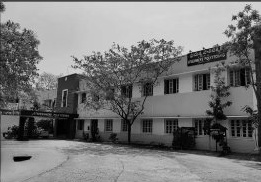
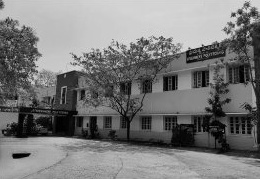
fix: make timeline spine a single continuous line across all rows and remove top border line from 2nd image

diff --git a/src/components/newspaper/NewspaperPages.tsx b/src/components/newspaper/NewspaperPages.tsx
@@ -225,21 +225,23 @@ export const Page03Education: React.FC = () => {
         <div className="w-full border-b border-[#111111] mt-3 sm:mt-4" />
       </div>
 
-      {/* 3-Row Education Timeline Grid with continuous spine */}
-      <div className="relative">
+      {/* 3-Row Education Timeline Grid with a single unbroken continuous spine */}
+      <div className="grid grid-cols-[1fr_28px_1.15fr] sm:grid-cols-[1fr_36px_1.15fr] gap-x-3 sm:gap-x-6 gap-y-6 sm:gap-y-8 relative">
+        {/* Single Unbroken Continuous Vertical Timeline Spine spanning all 3 rows without any gaps */}
+        <div
+          className="col-start-2 row-start-1 row-end-4 relative flex justify-center pointer-events-none z-0"
+          aria-hidden="true"
+        >
+          <div className="w-[2.5px] bg-[#111111] absolute top-[9px] bottom-[-28px] left-1/2 -translate-x-1/2" />
+        </div>
+
         {milestones.map((item, index) => {
-          const isFirst = index === 0;
-          const isLast = index === milestones.length - 1;
+          const rowClass = index === 0 ? 'row-start-1' : index === 1 ? 'row-start-2' : 'row-start-3';
 
           return (
-            <div
-              key={index}
-              className={`grid grid-cols-[1fr_28px_1.15fr] sm:grid-cols-[1fr_36px_1.15fr] gap-3 sm:gap-6 items-start relative ${
-                isLast ? 'pb-2' : 'pb-6 sm:pb-8'
-              }`}
-            >
+            <React.Fragment key={index}>
               {/* Left Column: Campus Photograph (Clean without borders or stray lines) */}
-              <div className="w-full aspect-[262/185] bg-[#ebe7dc] overflow-hidden shadow-xs">
+              <div className={`col-start-1 ${rowClass} w-full aspect-[262/185] bg-[#ebe7dc] overflow-hidden shadow-xs`}>
                 <img
                   src={item.image}
                   alt={item.alt}
@@ -248,24 +250,13 @@ export const Page03Education: React.FC = () => {
                 />
               </div>
 
-              {/* Center Timeline Spine Segment */}
-              <div className="flex flex-col items-center self-stretch relative h-full">
-                {/* Continuous Vertical Timeline Line (Connecting seamlessly from Circle 1 down past Circle 3) */}
-                <div
-                  className={`w-[2.5px] bg-[#111111] absolute left-1/2 -translate-x-1/2 z-0 ${
-                    isFirst
-                      ? 'top-[9px] bottom-[-4px]'
-                      : isLast
-                      ? 'top-[-4px] bottom-[-32px]'
-                      : 'top-[-4px] bottom-[-4px]'
-                  }`}
-                />
-                {/* Solid Circular Node Dot aligned with the Year */}
-                <div className="w-3.5 h-3.5 rounded-full bg-[#111111] relative z-10 mt-[2px] shrink-0" />
+              {/* Center Timeline Node Dot aligned with the Year */}
+              <div className={`col-start-2 ${rowClass} flex justify-center items-start z-10 pointer-events-none`}>
+                <div className="w-3.5 h-3.5 rounded-full bg-[#111111] mt-[2px] shrink-0" />
               </div>
 
               {/* Right Column: Educational Ledger */}
-              <div className="flex flex-col justify-start">
+              <div className={`col-start-3 ${rowClass} flex flex-col justify-start`}>
                 <span className="font-serif text-sm sm:text-base text-[#111111] font-normal leading-none mb-1.5 block">
                   {item.year}
                 </span>
@@ -279,7 +270,7 @@ export const Page03Education: React.FC = () => {
                   {item.score}
                 </span>
               </div>
-            </div>
+            </React.Fragment>
           );
         })}
       </div>
